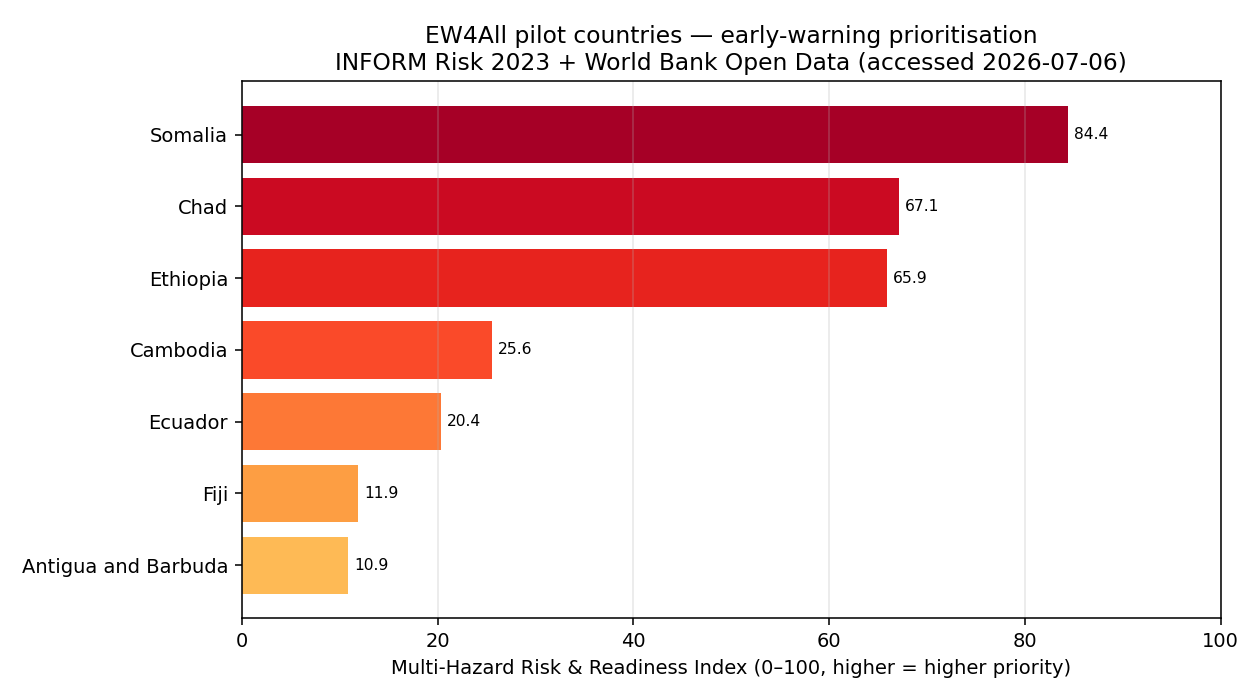
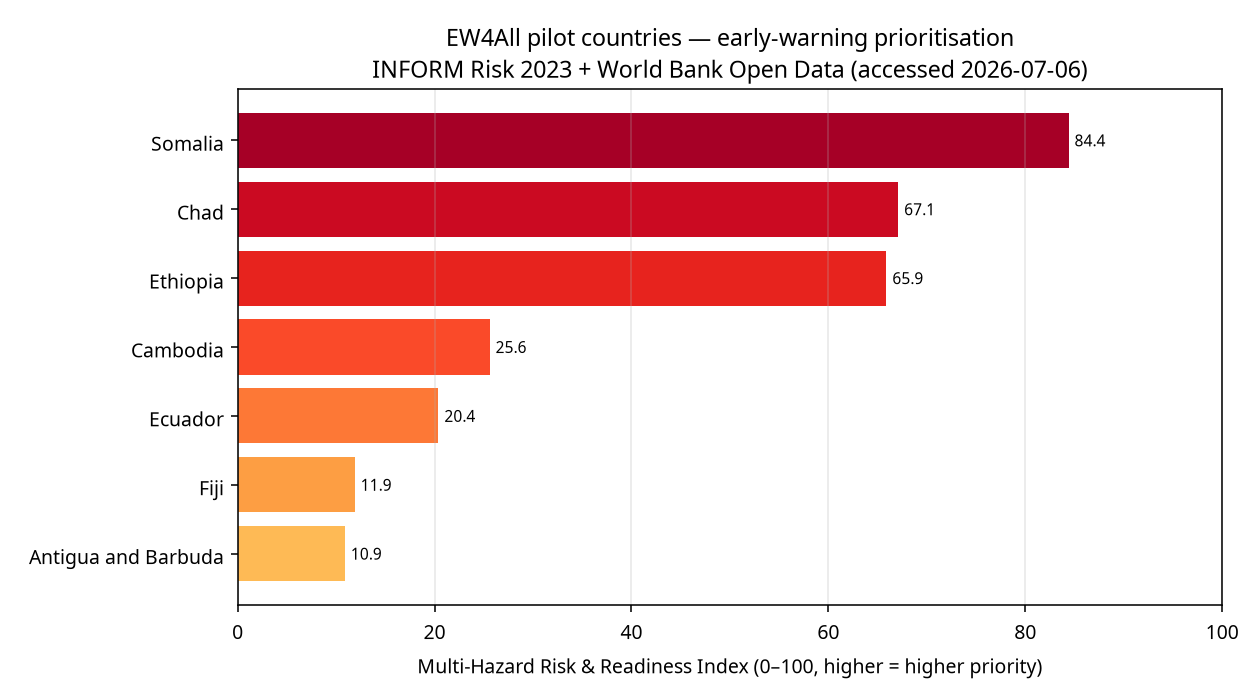
docs: describe the INFORM comparison as a consistency check, not independent validation
The hazard dimension is the INFORM Hazard & Exposure component, so a 0.99 rank correlation
with INFORM overall shares an input and is partly structural. The text claimed the two were
built from different inputs and that the agreement was therefore not circular.

diff --git a/README.md b/README.md
@@ -40,9 +40,11 @@ Accessed 2026-07-06. Full indicator codes, years and URLs in [`data/sources.md`]
 | 6 | Fiji | 11.9 | 0.03 | 0.27 | 0.05 | 2.9 |
 | 7 | Antigua and Barbuda | 10.9 | 0.00 | 0.33 | 0.00 | 2.5 |
 
-**Independent validation:** the ranking matches the JRC INFORM *overall* risk score — which is
-**not** used in the composite — at a Spearman rank correlation of **ρ ≈ 0.99**. The two were
-built from different inputs, so the agreement is a genuine cross-check, not circular.
+**Consistency check against INFORM:** the ranking matches the JRC INFORM *overall* risk score at
+a Spearman rank correlation of **ρ ≈ 0.99**. This is a consistency check, not an independent
+validation: the hazard dimension **is** the INFORM Hazard & Exposure component, so the two share
+an input and part of the agreement is structural. What the check does establish is that adding
+the World Bank vulnerability and readiness indicators does not overturn the INFORM ordering.
 
 ![Indicator heatmap](results/indicator_heatmap.png)
 
